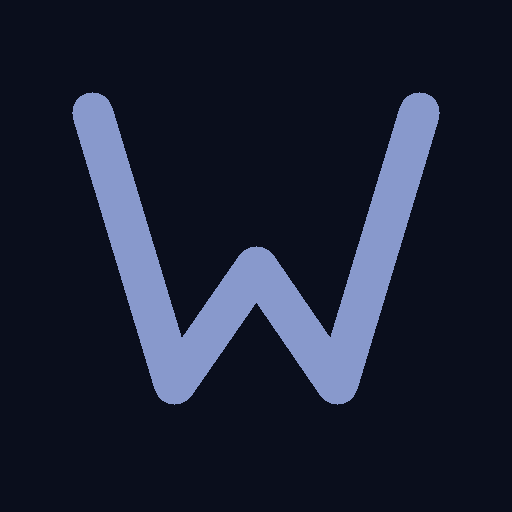
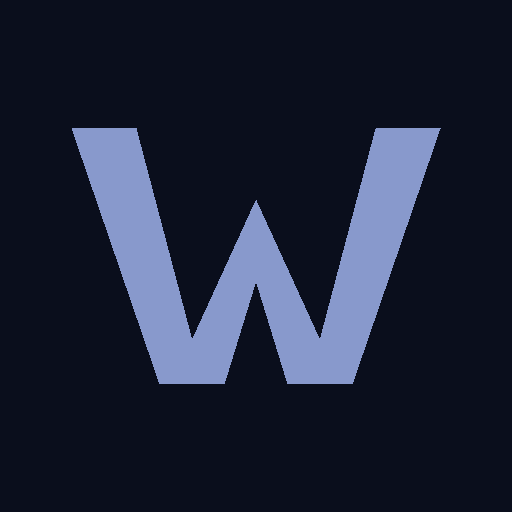
Regen PNGs from polygon — actual W shape. SW v6

diff --git a/sw.js b/sw.js
@@ -1,4 +1,4 @@
-const CACHE = 'writer-v5';
+const CACHE = 'writer-v6';
 const ASSETS = ['./', './index.html', './style.css', './app.js', './manifest.json', './icon.svg', './favicon.svg', './icon-192.png', './icon-512.png'];
 
 self.addEventListener('install', e => {
